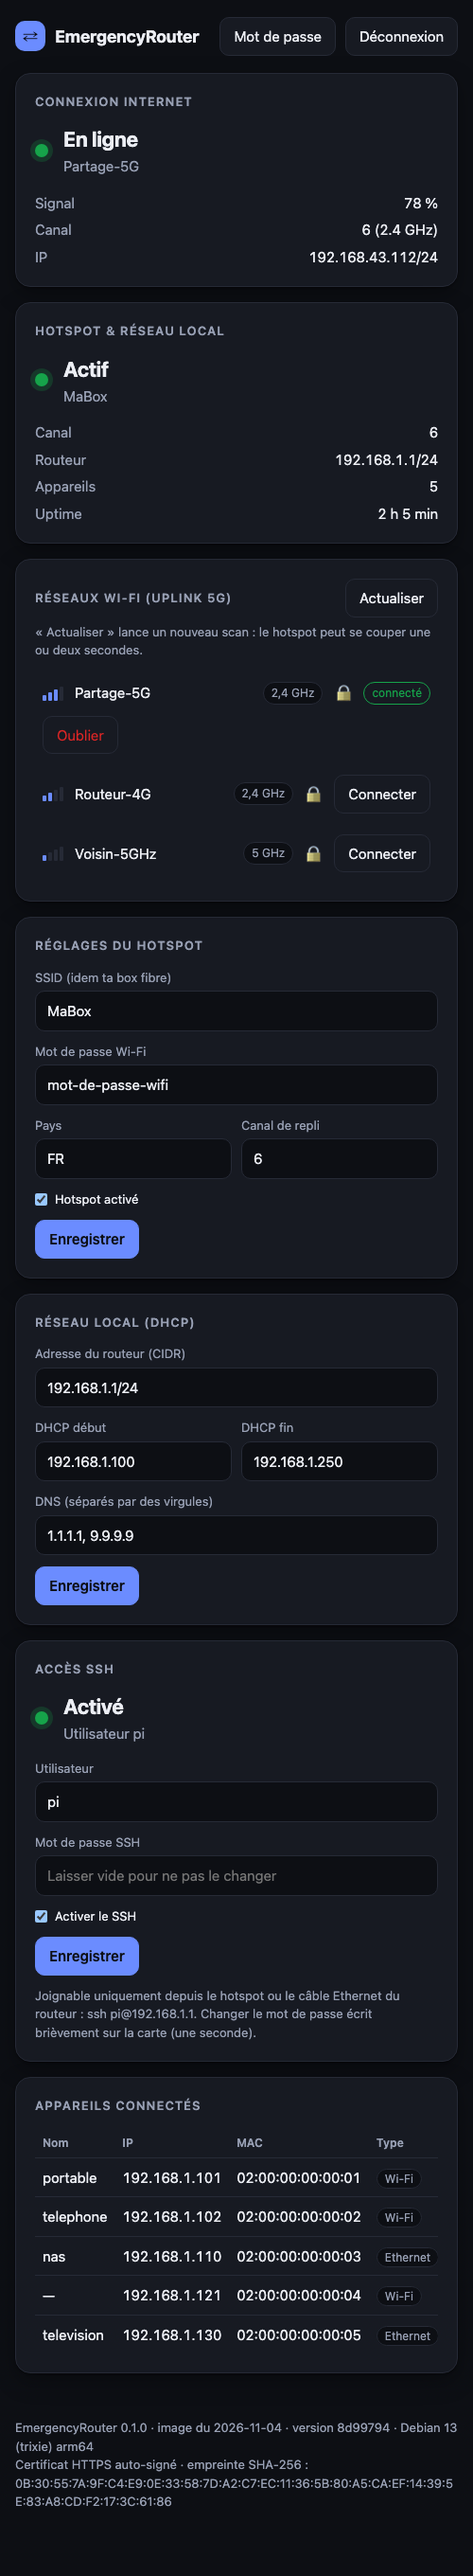
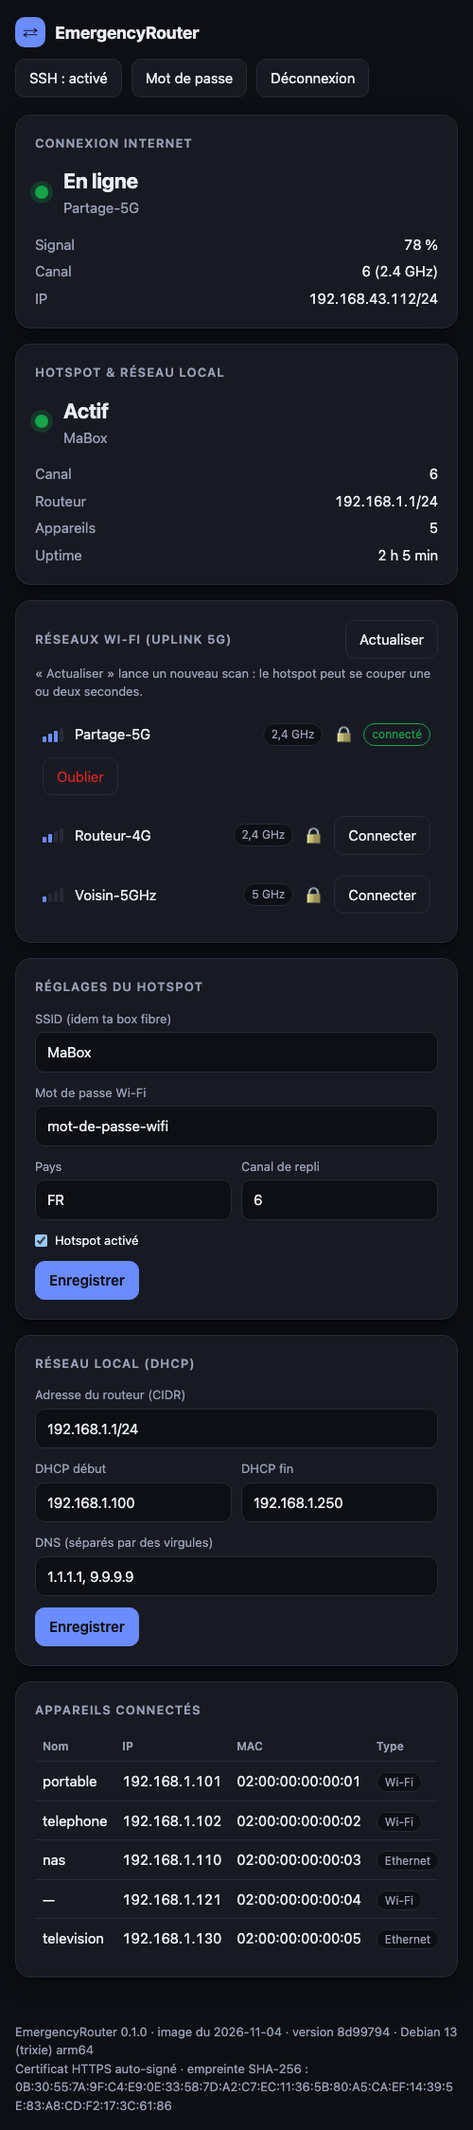
Accès SSH : bouton dans l'en-tête et fenêtre, au lieu d'une carte
La carte SSH laissait un trou dans la grille. Le bouton « SSH : activé/éteint » de l'en-tête ouvre une
fenêtre (utilisateur, mot de passe, case à cocher) ; les erreurs s'affichent dans la fenêtre. Captures mises à jour.

diff --git a/erouter/static/app.js b/erouter/static/app.js
@@ -45,23 +45,29 @@ $("#loginForm").onsubmit = async e => {
 };
 $("#logoutBtn").onclick = async () => { await api("/api/logout", {}); boot(); };
 
-let sshFormReady = false;
+let ssh = null;
 function renderSsh(x) {
   if (!x) return;
-  $("#sshDot").className = "dot " + (x.active ? "ok" : x.enabled ? "bad" : "");
-  $("#sshTitle").textContent = x.active ? "Activé" : x.enabled ? "Arrêté" : "Désactivé";
-  $("#sshSub").textContent = x.active ? `Utilisateur ${x.user}` : "";
-  $("#sshHelp").textContent = `Joignable uniquement depuis le hotspot ou le câble Ethernet du routeur : ssh ${x.user}@192.168.1.1. ` +
-    "Changer le mot de passe écrit brièvement sur la carte (une seconde).";
-  $("#sshPw").placeholder = x.password_set ? "Laisser vide pour ne pas le changer" : "Choisis un mot de passe (12 caractères min.)";
-  if (!sshFormReady) { $("#sshUser").value = x.user; $("#sshOn").checked = x.enabled; sshFormReady = true; }
+  ssh = x;
+  $("#sshBtn").textContent = x.active ? "SSH : activé" : x.enabled ? "SSH : arrêté" : "SSH : éteint";
 }
+$("#sshBtn").onclick = () => {
+  if (!ssh) return;
+  $("#sshUser").value = ssh.user; $("#sshOn").checked = ssh.enabled; $("#sshPw").value = ""; $("#sshErr").textContent = "";
+  $("#sshStatus").textContent = ssh.active ? "Le serveur SSH est en marche."
+    : ssh.enabled ? "Activé, mais le serveur n'a pas pu démarrer." : "Le serveur SSH est éteint.";
+  $("#sshPw").placeholder = ssh.password_set ? "Laisser vide pour ne pas le changer" : "Choisis un mot de passe (12 caractères min.)";
+  $("#sshHelp").textContent = `Joignable uniquement depuis le hotspot ou le câble Ethernet du routeur : ssh ${ssh.user}@192.168.1.1. ` +
+    "Changer le mot de passe écrit brièvement sur la carte (une seconde).";
+  $("#sshDlg").showModal();
+};
+$("#sshCancel").onclick = () => $("#sshDlg").close();
 $("#sshForm").onsubmit = async e => {
-  e.preventDefault();
+  e.preventDefault(); $("#sshErr").textContent = "";
   try {
     const r = await api("/api/ssh", {enabled: $("#sshOn").checked, password: $("#sshPw").value});
-    $("#sshPw").value = ""; toast(r.enabled ? "SSH activé" : "SSH désactivé"); setTimeout(refresh, 3000);
-  } catch (err) { toast(err.message); }
+    $("#sshDlg").close(); toast(r.enabled ? "SSH activé" : "SSH désactivé"); setTimeout(refresh, 3000);
+  } catch (err) { $("#sshErr").textContent = err.message; }   // dans la fenêtre : un toast serait caché derrière elle
 };
 function renderBuild(b) {
   if (!b) return;

diff --git a/erouter/static/index.html b/erouter/static/index.html
@@ -24,7 +24,7 @@
 <div id="app" hidden>
 <header>
   <div class="brand"><span class="logo">⇄</span> EmergencyRouter</div>
-  <div class="row"><button id="pwBtn">Mot de passe</button><button id="logoutBtn">Déconnexion</button></div>
+  <div class="row"><button id="sshBtn">SSH</button><button id="pwBtn">Mot de passe</button><button id="logoutBtn">Déconnexion</button></div>
 </header>
 <main>
   <div class="banner" id="warnings" hidden></div>
@@ -79,19 +79,6 @@
     </form>
   </section>
 
-  <section class="card">
-    <h2>Accès SSH</h2>
-    <div class="hero"><span class="dot" id="sshDot"></span>
-      <div><div class="big" id="sshTitle">…</div><div class="muted" id="sshSub"></div></div></div>
-    <form id="sshForm">
-      <label>Utilisateur<input id="sshUser" readonly></label>
-      <label>Mot de passe SSH<input id="sshPw" type="password" autocomplete="new-password" minlength="12" maxlength="64"></label>
-      <label class="check"><input id="sshOn" type="checkbox"> Activer le SSH</label>
-      <button class="primary">Enregistrer</button>
-    </form>
-    <p class="muted small" id="sshHelp"></p>
-  </section>
-
   <section class="card wide">
     <h2>Appareils connectés</h2>
     <div class="table-wrap"><table><thead><tr><th>Nom</th><th>IP</th><th>MAC</th><th>Type</th></tr></thead><tbody id="clients"></tbody></table></div>
@@ -116,6 +103,18 @@
     <label>Actuel<input id="pwCur" type="password" autocomplete="current-password" maxlength="128" required></label>
     <label>Nouveau (8 min.)<input id="pwNew" type="password" autocomplete="new-password" minlength="8" maxlength="128" required></label>
     <div class="row"><button type="button" id="pwCancel">Annuler</button><button class="primary">Valider</button></div>
+  </form>
+</dialog>
+<dialog id="sshDlg">
+  <form id="sshForm">
+    <h3>Accès SSH</h3>
+    <p class="muted small" id="sshStatus"></p>
+    <label>Utilisateur<input id="sshUser" readonly></label>
+    <label>Mot de passe SSH<input id="sshPw" type="password" autocomplete="new-password" minlength="12" maxlength="64"></label>
+    <label class="check"><input id="sshOn" type="checkbox"> Activer le SSH</label>
+    <p class="muted small" id="sshHelp"></p>
+    <p class="error" id="sshErr"></p>
+    <div class="row"><button type="button" id="sshCancel">Annuler</button><button class="primary">Enregistrer</button></div>
   </form>
 </dialog>
 <div class="toast" id="toast" role="status" aria-live="polite"></div>

diff --git a/erouter/static/app.css b/erouter/static/app.css
@@ -56,8 +56,7 @@ label.check input{width:auto;margin:0}
 .bars i.h1{height:6px}.bars i.h2{height:9px}.bars i.h3{height:12px}.bars i.h4{height:15px}
 .tag{font-size:12px;padding:2px 8px;border-radius:99px;background:var(--bg);border:1px solid var(--line);color:var(--muted)}
 .tag.ok{color:var(--ok);border-color:currentColor;background:transparent}
-#sshForm{margin-top:16px}
-#sshHelp{margin-top:12px;margin-bottom:0}
+#sshHelp{margin-top:0}
 .foot{max-width:1080px;margin:0 auto;padding:0 16px 32px;overflow-wrap:anywhere}
 .table-wrap{overflow-x:auto}
 table{width:100%;border-collapse:collapse}

diff --git a/tests/test_erouter.py b/tests/test_erouter.py
@@ -675,6 +675,12 @@ class WebTests(unittest.TestCase):
         self.assertNotIn(b"<script>", r.data, "aucun script en ligne")
         self.assertNotIn(b"style=", r.data, "aucun style en ligne")
 
+    def test_ssh_lives_in_a_dialog_opened_from_the_header(self):
+        html = self.c.get("/").data
+        self.assertIn(b'id="sshBtn"', html)
+        self.assertIn(b'<dialog id="sshDlg">', html)
+        self.assertNotIn("Accès SSH</h2>".encode(), html, "plus de carte SSH dans la grille")
+
     def test_static_whitelist(self):
         self.assertEqual(self.c.get("/static/app.js").status_code, 200)
         self.assertEqual(self.c.get("/static/app.css").status_code, 200)

diff --git a/README.md b/README.md
@@ -20,6 +20,10 @@ Captures réalisées avec des données fictives.
 |---|---|---|
 | ![Tableau de bord, thème clair](docs/screenshots/dashboard-light.png) | ![Interface sur mobile](docs/screenshots/mobile.png) | ![Écran de premier démarrage](docs/screenshots/login.png) |
 
+Le bouton « SSH » de l'en-tête ouvre une fenêtre pour activer le SSH et choisir son mot de passe :
+
+![Fenêtre d'accès SSH](docs/screenshots/ssh-dialog.png)
+
 L'interface suit le thème clair ou sombre de l'appareil et s'adapte aux petits écrans.
 
 ## Installation
@@ -43,8 +47,8 @@ le **système en lecture seule** : on peut couper le courant à tout moment.
 
 ### Accès SSH
 
-Éteint par défaut. Pour l'activer, dans l'interface, carte **« Accès SSH »** : choisis un mot de passe (12 caractères
-minimum), coche « Activer le SSH » et enregistre. Puis :
+Éteint par défaut. Pour l'activer, dans l'interface, bouton **« SSH »** en haut de la page : choisis un mot de passe
+(12 caractères minimum), coche « Activer le SSH » et enregistre. Puis :
 
 ```
 ssh pi@192.168.1.1        # depuis le hotspot ERouter-Setup ou le câble Ethernet du Pi
